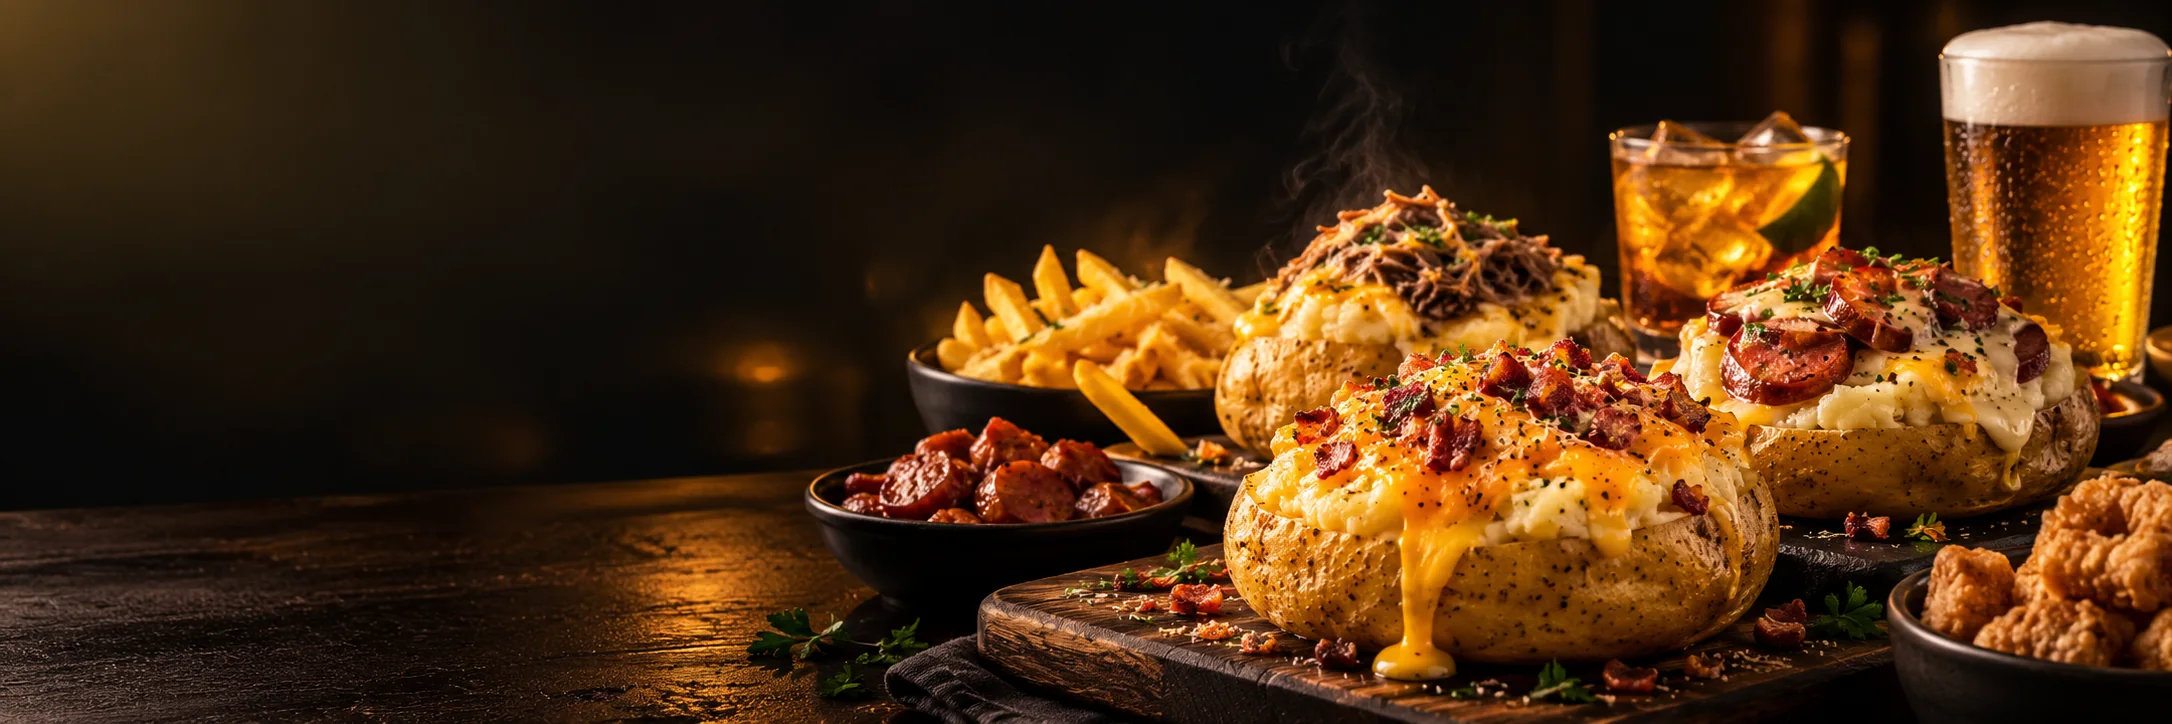
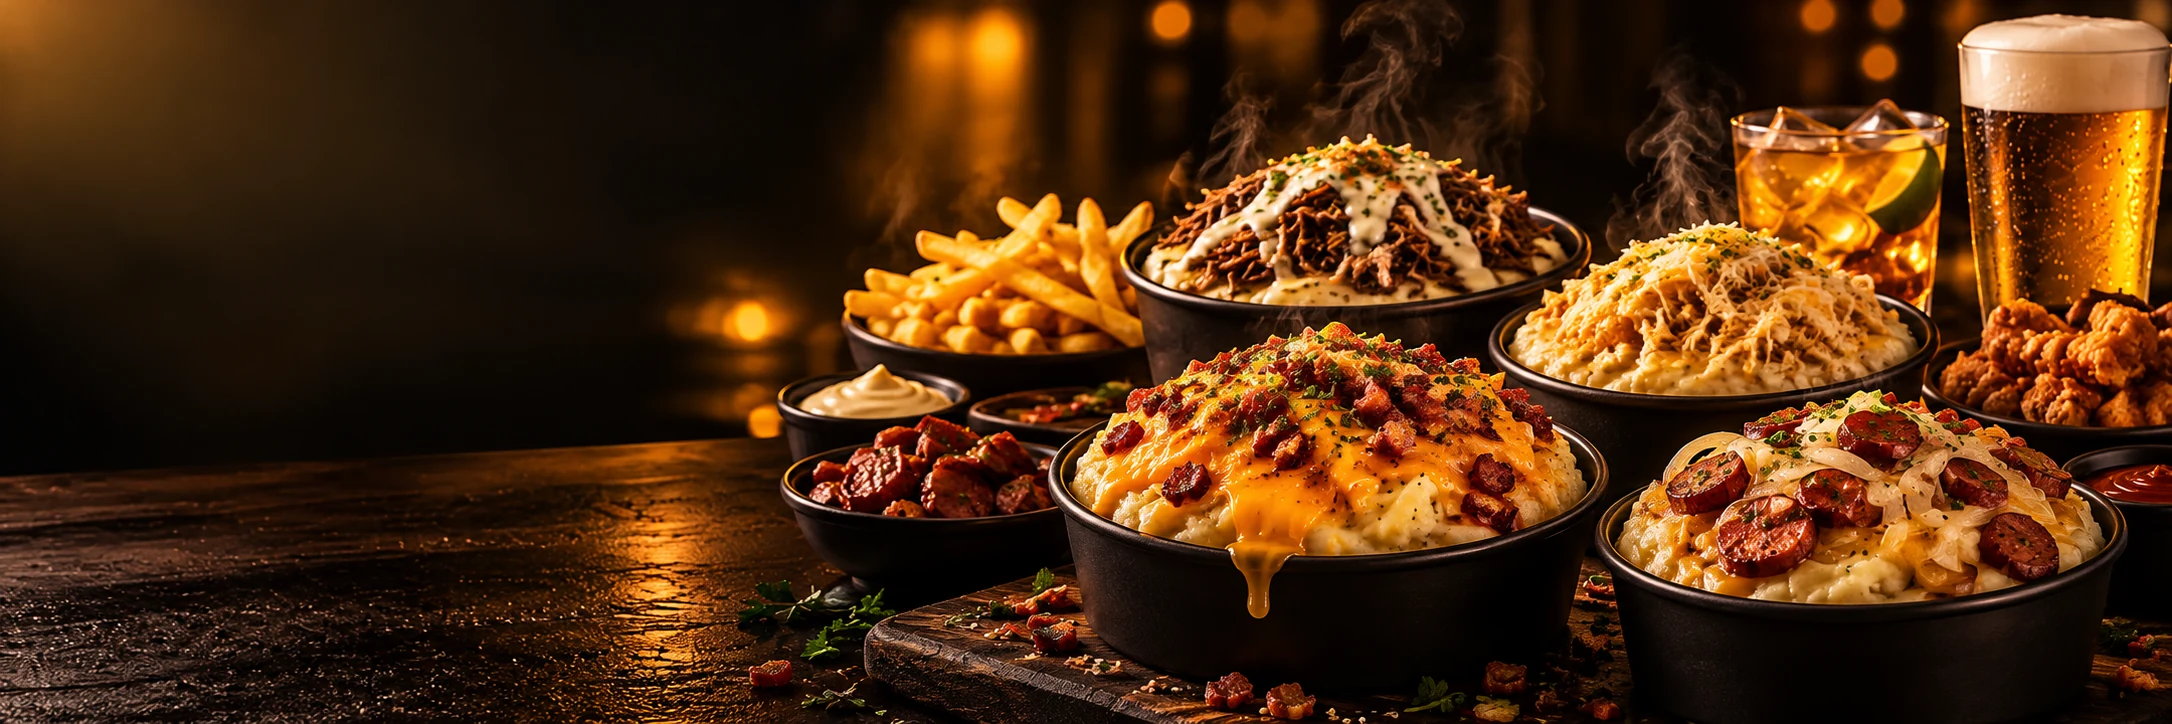
Atualiza imagem do cabeçalho do cardápio

diff --git a/cardapio.html b/cardapio.html
@@ -7,7 +7,7 @@
   <meta name="description" content="Cardápio digital do Petisbar Teodoro. Faça seu pedido para retirada ou entrega.">
   <title>Peça online — Petisbar Teodoro</title>
   <link rel="stylesheet" href="./css/variables.css">
-  <link rel="stylesheet" href="./css/cardapio.css?v=20261007-4">
+  <link rel="stylesheet" href="./css/cardapio.css?v=20261008-1">
 </head>
 <body>
   <header class="store-header">
